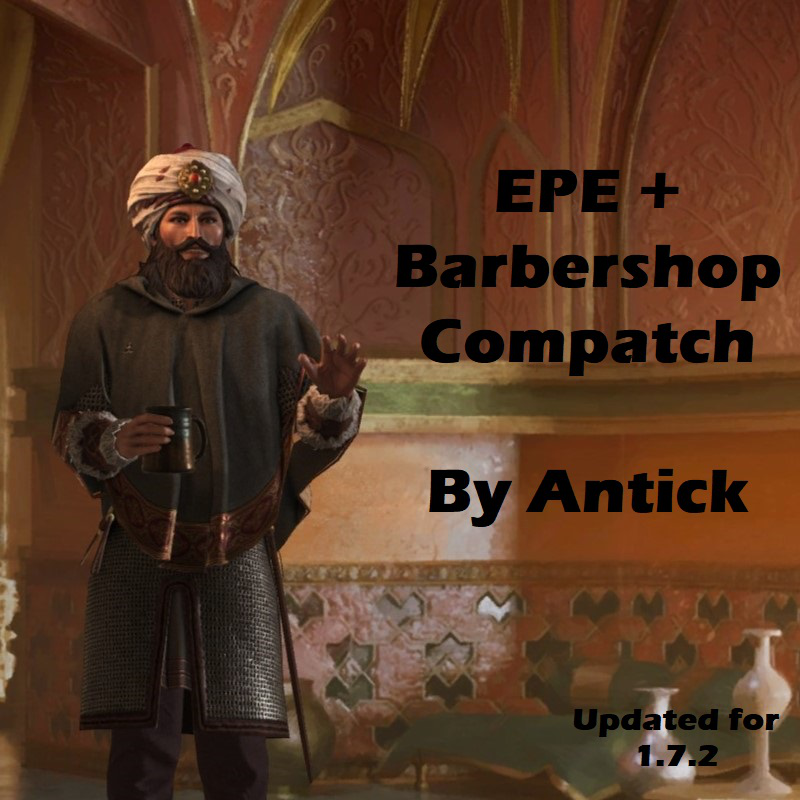
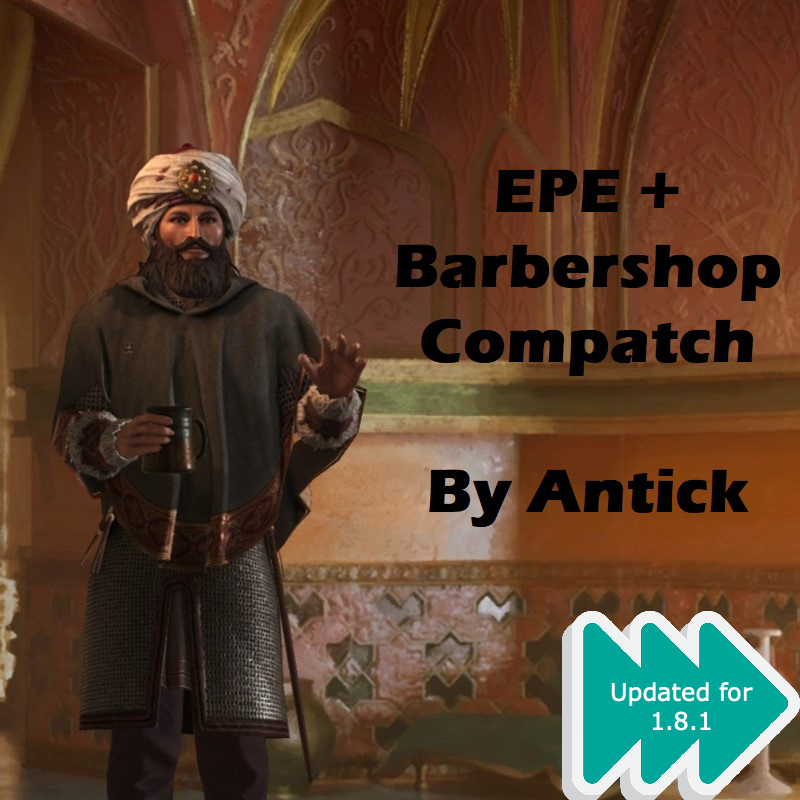
updated for 1.8.1

Changed region(s): [[0.6875, 0.75, 1.0, 1.0]]

diff --git a/readme.md b/readme.md
@@ -1,14 +1,11 @@
 # EPE + Barbershop Idle Poses Compatch
 
-**Updated for 1.7.2**
+**Updated for 1.8.1**
 
 ## Introduction
 
 This mod fixes the Idle Poses compatibility with Fullscreen Barbershop and EPE (Ethnicities & Portraits expanded).
 
-The below compatch is outdated so I had to create one myself. I can't imagine playing CK3 without this fix.
-
-(Outdated) https://steamcommunity.com/sharedfiles/filedetails/?id=2777665783
 
 ## Installation
 
